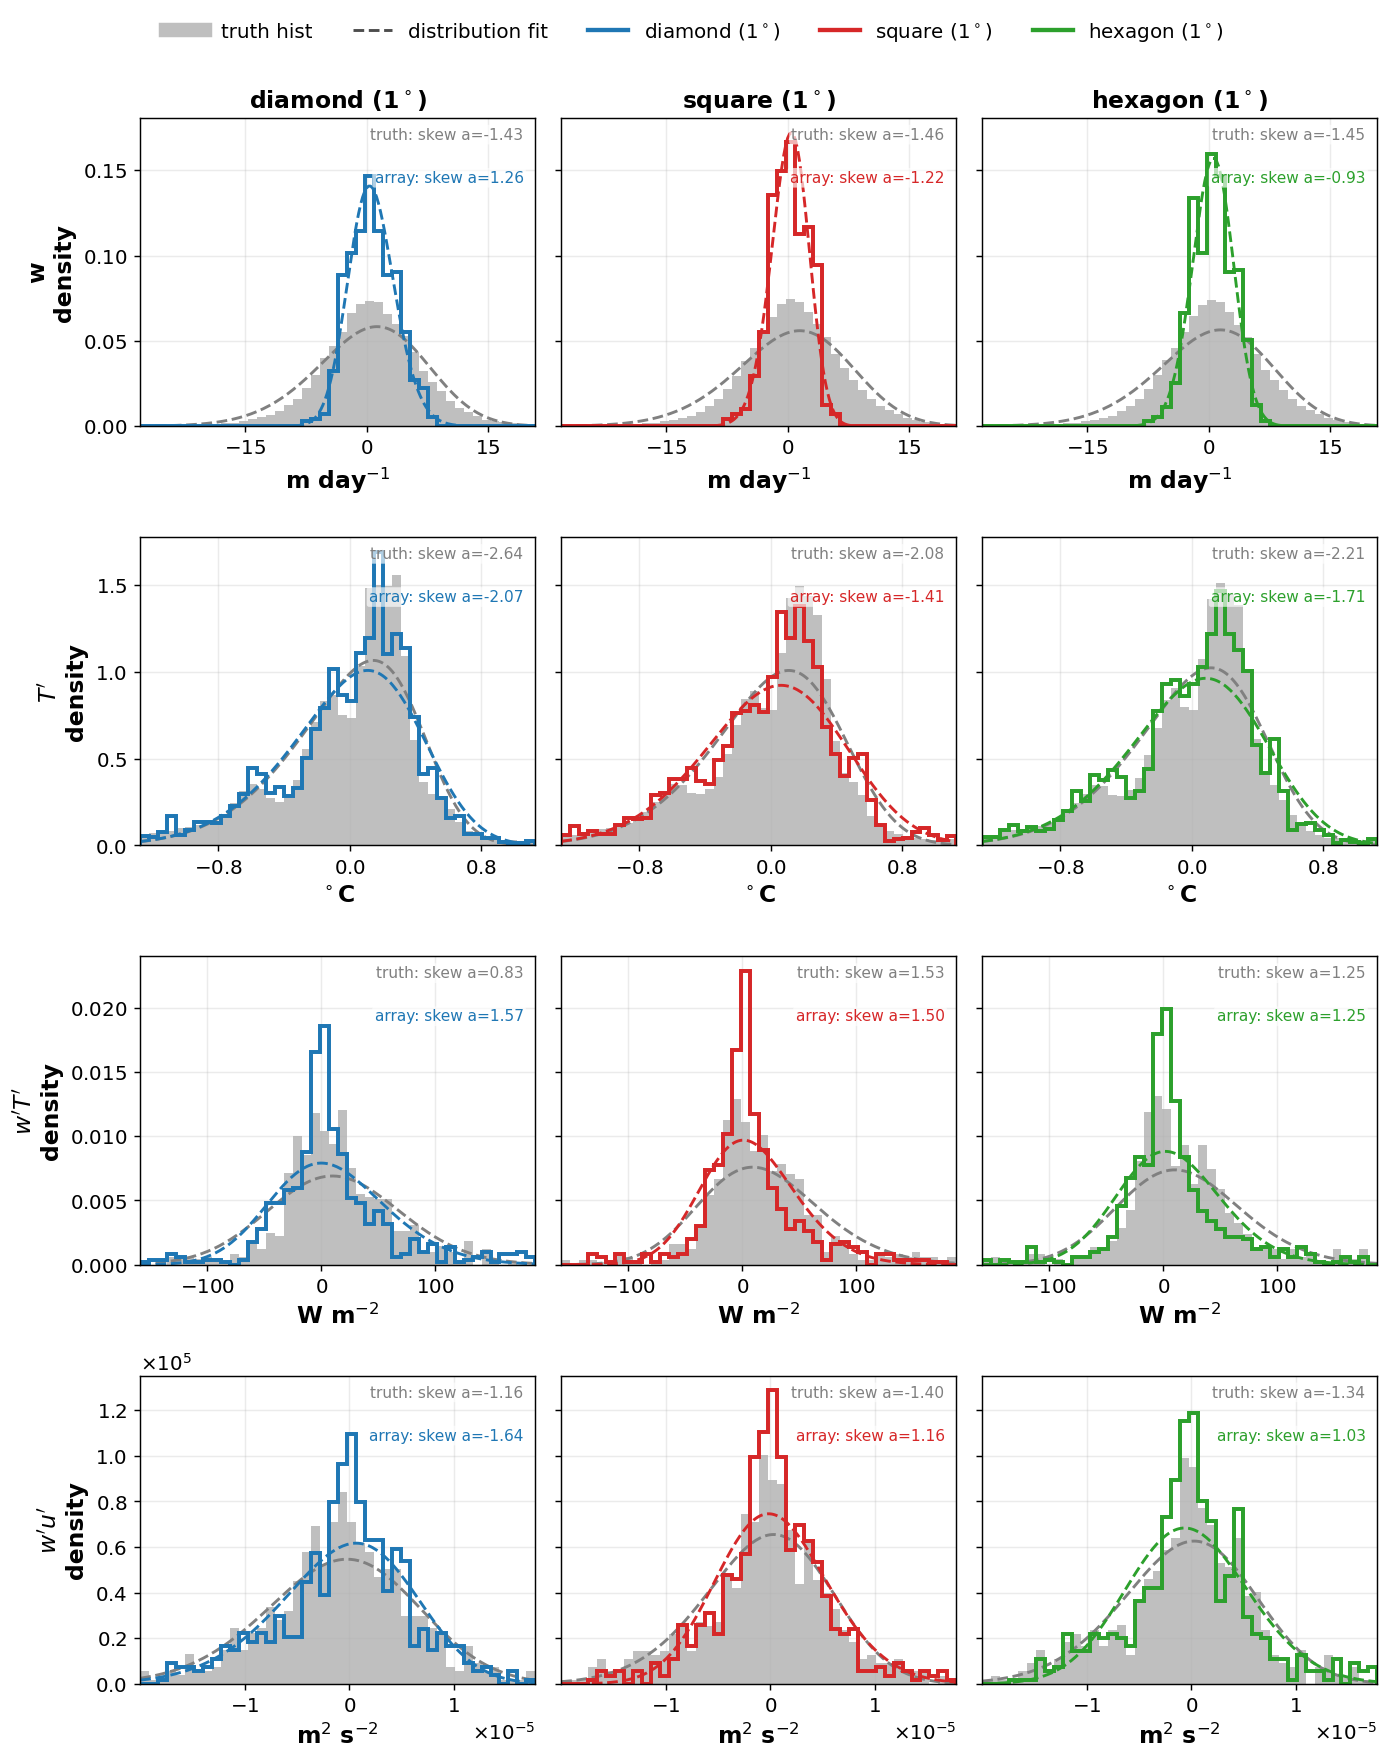
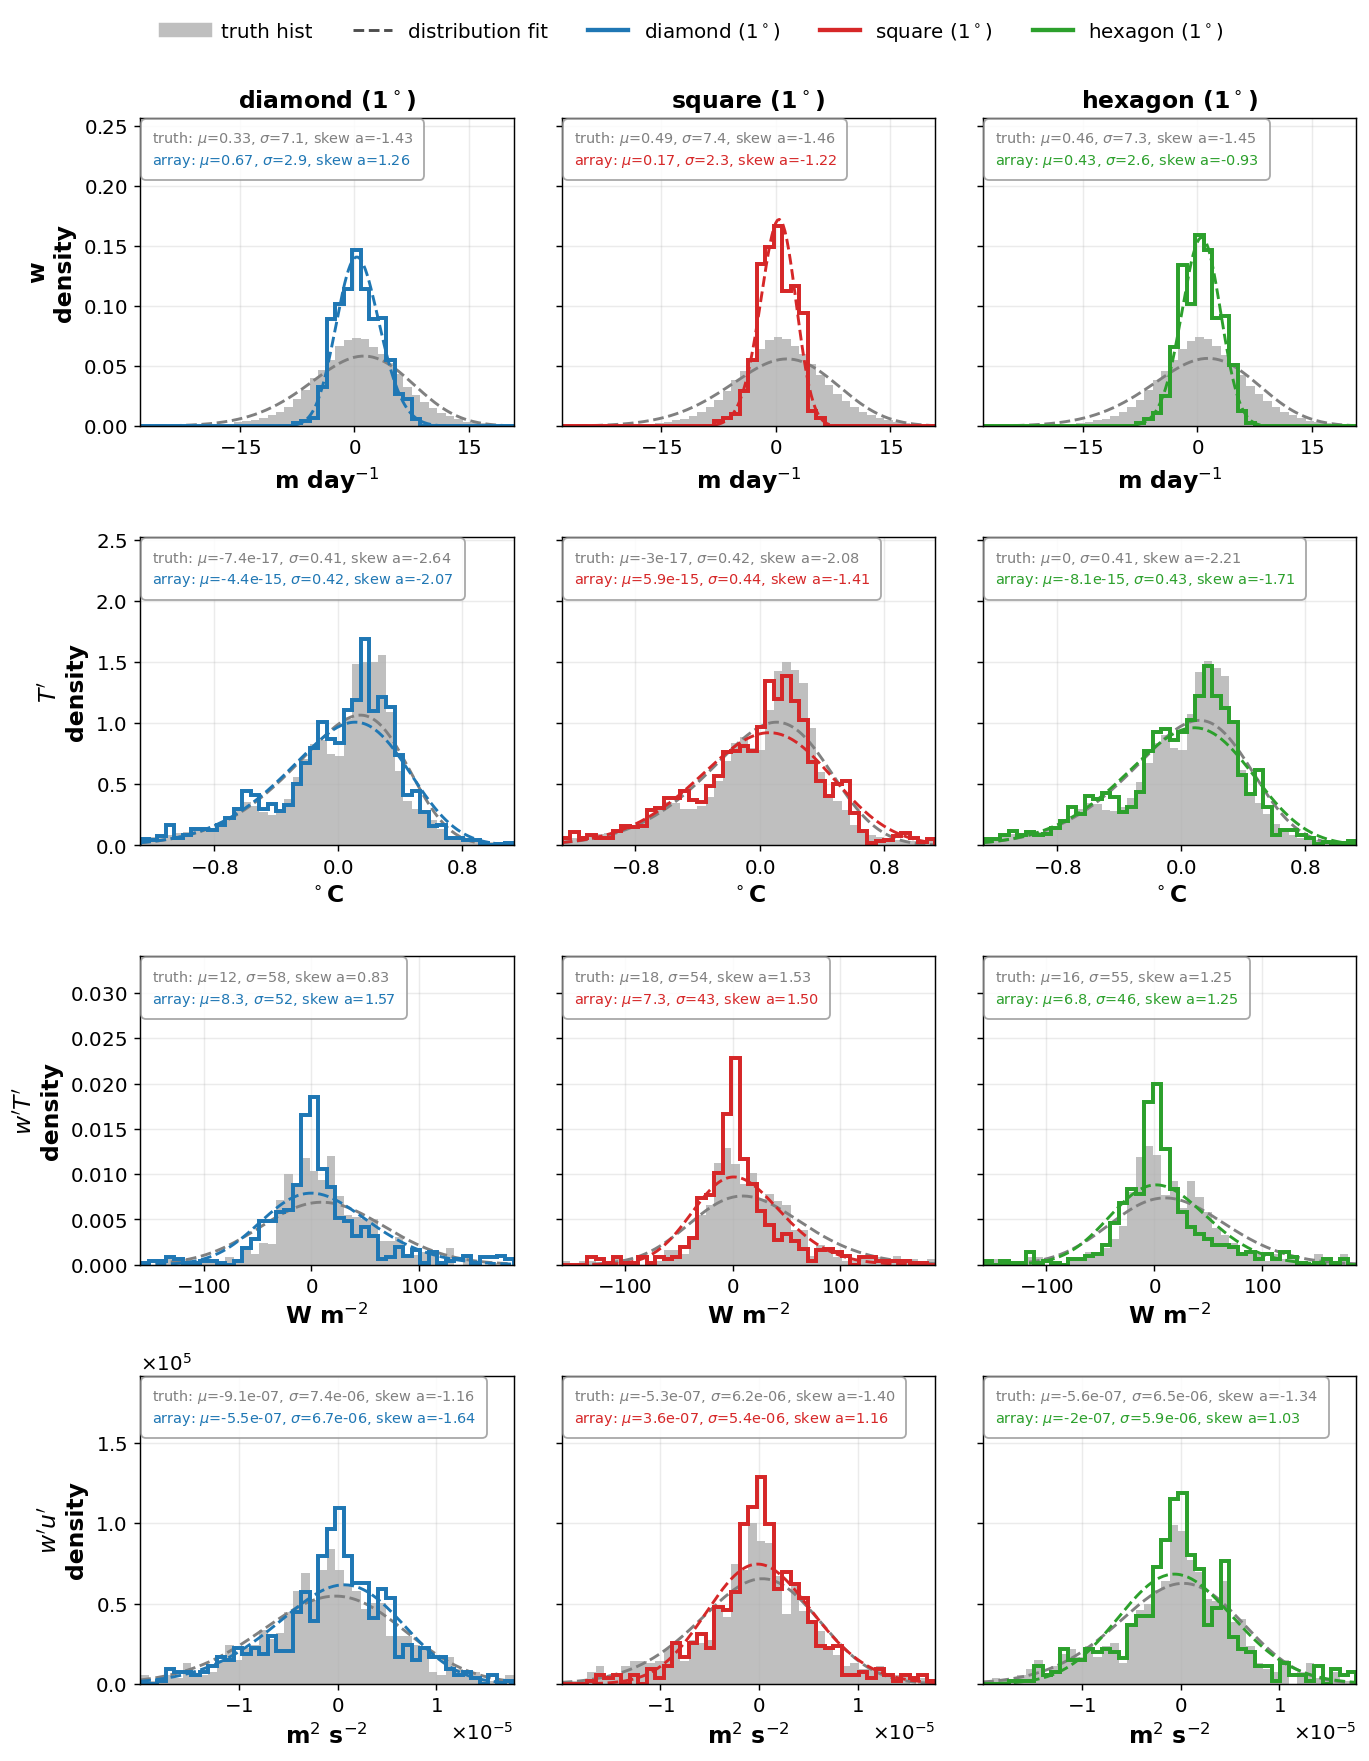
updating text insets

diff --git a/sampling_dynamics/run_distributions.py b/sampling_dynamics/run_distributions.py
@@ -26,6 +26,7 @@ import re
 import numpy as np
 import matplotlib.pyplot as plt
 from matplotlib.lines import Line2D
+from matplotlib.offsetbox import AnchoredOffsetbox, TextArea, VPacker
 from scipy.stats import skewnorm
 
 import common as C
@@ -171,9 +172,10 @@ def _fit_samples_uv(diam, z, shape='symhex'):
 def _bimodal_fit(data, xx, n_iter=300, seed=0):
     """2-component Gaussian mixture via a compact 1-D EM (no sklearn dependency).
 
-    Returns (mixture pdf on xx, peak separation |mu2 - mu1|).  Used for the u'/v'
-    rows, whose oscillatory (TIW/eddy) dynamics give a genuinely bimodal PDF that a
-    single skew-normal cannot represent.
+    Returns (mixture pdf on xx, [(mu, sigma), (mu, sigma)] sorted by mu).  Used for the
+    u'/v' rows, whose oscillatory (TIW/eddy) dynamics give a genuinely bimodal PDF that a
+    single skew-normal cannot represent; the two component means/stds describe the two
+    lobes directly.
     """
     from scipy.stats import norm
     x = np.asarray(data)[np.isfinite(data)]
@@ -188,7 +190,9 @@ def _bimodal_fit(data, xx, n_iter=300, seed=0):
         mu = (r * x).sum(1) / nk
         var = (r * (x - mu[:, None]) ** 2).sum(1) / nk + 1e-12
     pdf = sum(w[k] * norm.pdf(xx, mu[k], np.sqrt(var[k])) for k in range(2))
-    return pdf, abs(mu[1] - mu[0])
+    order = np.argsort(mu)                                # report left lobe first
+    comps = [(float(mu[k]), float(np.sqrt(var[k]))) for k in order]
+    return pdf, comps
 
 
 def _fit_grid(out, per_col, cols, col_title, fname, bimodal_labels=frozenset(),
@@ -219,24 +223,32 @@ def _fit_grid(out, per_col, cols, col_title, fname, bimodal_labels=frozenset(),
             ax = axes[ri, ci]
             o, t = per_col[col][lab]
             arr_color = col_colors[col] if col_colors else '#08306b'
+            notes = []                                   # (text, colour) per series
             for data, color, name in [(t, '0.5', 'truth'), (o, arr_color, 'array')]:
                 data = data[np.isfinite(data)]
                 kw = dict(alpha=0.5) if name == 'truth' else dict(histtype='step', lw=2.2)
                 ax.hist(data, bins=bins, density=True, color=color, **kw)
-                if bimodal:                              # 2-Gaussian mixture -> peak separation
-                    pdf, sep = _bimodal_fit(data, xx)
-                    note = f'{name}: $\\Delta$peak={sep:.2g}'
-                else:                                    # skew-normal -> shape parameter a
+                if bimodal:                              # 2-Gaussian mixture -> per-lobe mean/std
+                    pdf, comps = _bimodal_fit(data, xx)
+                    (m1, s1), (m2, s2) = comps
+                    note = (f'{name}: $\\mu_1$={m1:.2g}, $\\sigma_1$={s1:.2g}, '
+                            f'$\\mu_2$={m2:.2g}, $\\sigma_2$={s2:.2g}')
+                else:                                    # skew-normal -> mean, std, shape a
                     a, loc, sc = skewnorm.fit(data)
                     pdf = skewnorm.pdf(xx, a, loc, sc)
-                    note = f'{name}: skew a={a:.2f}'
+                    note = (f'{name}: $\\mu$={np.mean(data):.2g}, '
+                            f'$\\sigma$={np.std(data):.2g}, skew a={a:.2f}')
                 ax.plot(xx, pdf, color=color, lw=1.6, ls='--')
-                # right-aligned in the (typically emptier) upper-right corner with a light
-                # background so it never sits on the data
-                ax.text(0.97, 0.97 - (0.14 if name == 'array' else 0), note,
-                        transform=ax.transAxes, va='top', ha='right', color=color,
-                        fontsize=8.5,
-                        bbox=dict(boxstyle='round,pad=0.15', fc='white', ec='none', alpha=0.65))
+                notes.append((note, color))
+            # a single bordered inset box in the (usually emptier) upper-LEFT corner,
+            # one colour-coded line per series, so it never sits on the data
+            box = AnchoredOffsetbox(
+                loc='upper left', frameon=True, pad=0.3, borderpad=0.3,
+                bbox_to_anchor=(0.0, 1.0), bbox_transform=ax.transAxes,
+                child=VPacker(pad=0, sep=2, align='left', children=[
+                    TextArea(n, textprops=dict(color=c, fontsize=8.0)) for n, c in notes]))
+            box.patch.set(boxstyle='round,pad=0.25', fc='white', ec='0.6', alpha=0.85)
+            ax.add_artist(box)
             ax.set_xlim(lo, hi)
             P.tidy_x(ax, 4)
             if ri == 0:
@@ -246,6 +258,11 @@ def _fit_grid(out, per_col, cols, col_title, fname, bimodal_labels=frozenset(),
             if ci == 0:
                 name = re.sub(r'\s*\([^()]*\)\s*$', '', lab)   # y-axis: name only, no units
                 ax.set_ylabel(f'{name}\ndensity')
+        # add headroom above the tallest peak in the row (shared y) so the upper-left
+        # stats box sits over empty space, not on the distribution
+        row_top = max(a.get_ylim()[1] for a in axes[ri, :])
+        for a in axes[ri, :]:
+            a.set_ylim(top=row_top * 1.42)
     # pack the axes up to the figure top, reserving only a thin strip for the legend so
     # tall (many-row) grids don't leave a big empty band under the legend
     fig_h = 3.4 * nr
